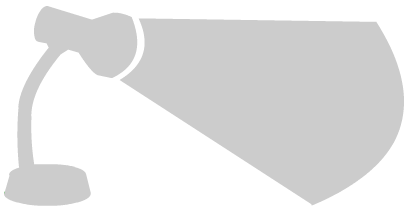
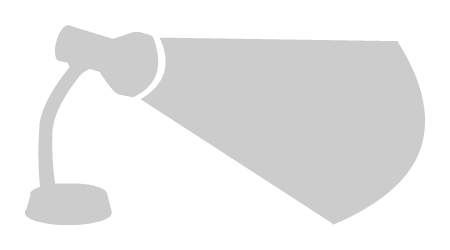
draganddrop :)

Changed region(s): [[0.0, 0.0286, 0.9951, 1.0]]

diff --git a/src/play_gui/MainWindow.java b/src/play_gui/MainWindow.java
@@ -1,16 +1,20 @@
 package play_gui;
 
 import java.awt.*;
+import java.awt.dnd.DnDConstants;
+import java.awt.dnd.DropTarget;
 import java.awt.image.BufferedImage;
 import java.io.File;
 import java.io.IOException;
 import java.util.ArrayList;
+import java.util.TooManyListenersException;
 
 import javax.imageio.ImageIO;
 import javax.swing.*;
 
 import engine.*;
 import gui.JGameSquare;
+import play_gui.listener.FileDropListener;
 import play_gui.listener.GameGridCellListener;
 import play_gui.listener.NewGameBtnListener;
 
@@ -40,11 +44,20 @@ public class MainWindow extends JFrame{
 		if(this.loadBackgroundImage("assets"+System.getProperty("file.separator")+"lamp.png")){
 			this.getContentPane().add(this.backgroundImage);
 		}
+		
+		//Enable file drop
+		DropTarget dropTarget = new DropTarget(this, DnDConstants.ACTION_COPY_OR_MOVE, null);
+		try {
+			dropTarget.addDropTargetListener(new FileDropListener(this));
+		} catch (TooManyListenersException e) {
+			e.printStackTrace();
+		}
+		
 		this.setResizable(false);
 		this.setLocationRelativeTo(null);
 		this.setVisible(true);
 	}
-	
+
 	//cleares the game grid TODO: remove grid panel
 	public void clearGameGrid(){
 		this.gameGrid = null;
@@ -136,6 +149,23 @@ public class MainWindow extends JFrame{
 			return false;
 		}
 	}
+	
+	//doesent work :( TODO fix it :)
+	public void setBackgroundHover(boolean hover){
+		if(hover){
+			this.getContentPane().remove(this.backgroundImage);
+			if(this.loadBackgroundImage("assets"+System.getProperty("file.separator")+"lamp-hover.png")){
+				this.getContentPane().add(this.backgroundImage);
+			}
+		}else{
+			this.getContentPane().remove(this.backgroundImage);
+			if(this.loadBackgroundImage("assets"+System.getProperty("file.separator")+"lamp.png")){
+				this.getContentPane().add(this.backgroundImage);
+			}
+		}
+		this.repaint();
+	}
+	
 	
 	public JGameSquare getCellByPosition(int x, int y){
 		Component[] cells = this.gameGridPanel.getComponents();

diff --git a/src/play_gui/listener/FileDropListener.java b/src/play_gui/listener/FileDropListener.java
@@ -1,0 +1,52 @@
+package play_gui.listener;
+
+import java.awt.datatransfer.DataFlavor;
+import java.awt.datatransfer.Transferable;
+import java.awt.dnd.*;
+import java.io.File;
+import java.util.List;
+import play_gui.MainWindow;
+import play_gui.PlayGuiController;
+
+public class FileDropListener implements DropTargetListener{
+	
+	private MainWindow mainWindow;
+	
+	public FileDropListener(MainWindow mainWindow){
+		this.mainWindow = mainWindow;
+	}
+
+	@Override
+	public void dragEnter(DropTargetDragEvent arg0) {
+	}
+
+	@Override
+	public void dragExit(DropTargetEvent arg0) {
+	}
+
+	@Override
+	public void dragOver(DropTargetDragEvent arg0) {
+	}
+
+	@Override
+	public void drop(DropTargetDropEvent event) {
+		event.acceptDrop(DnDConstants.ACTION_COPY_OR_MOVE);
+        try {
+            Transferable data = event.getTransferable();
+            if (data.isDataFlavorSupported(DataFlavor.javaFileListFlavor)) {
+				@SuppressWarnings("unchecked")
+				List<File> list = (List<File>) data.getTransferData(DataFlavor.javaFileListFlavor);
+                PlayGuiController.newGame(this.mainWindow, list.get(0));
+            }
+		} catch (Exception e){
+			e.printStackTrace();
+		}
+	}
+
+	@Override
+	public void dropActionChanged(DropTargetDragEvent arg0) {
+		// TODO Auto-generated method stub
+		
+	}
+
+}

diff --git a/src/play_gui/listener/NewGameBtnListener.java b/src/play_gui/listener/NewGameBtnListener.java
@@ -16,7 +16,6 @@ public class NewGameBtnListener implements ActionListener{
 		fileDialog.showOpenDialog(fileDialog);
 		MainWindow mainwindow = (MainWindow) ((JComponent) event.getSource()).getRootPane().getParent();
 		PlayGuiController.newGame(mainwindow, fileDialog.getSelectedFile());
-
 	}
 
 }
